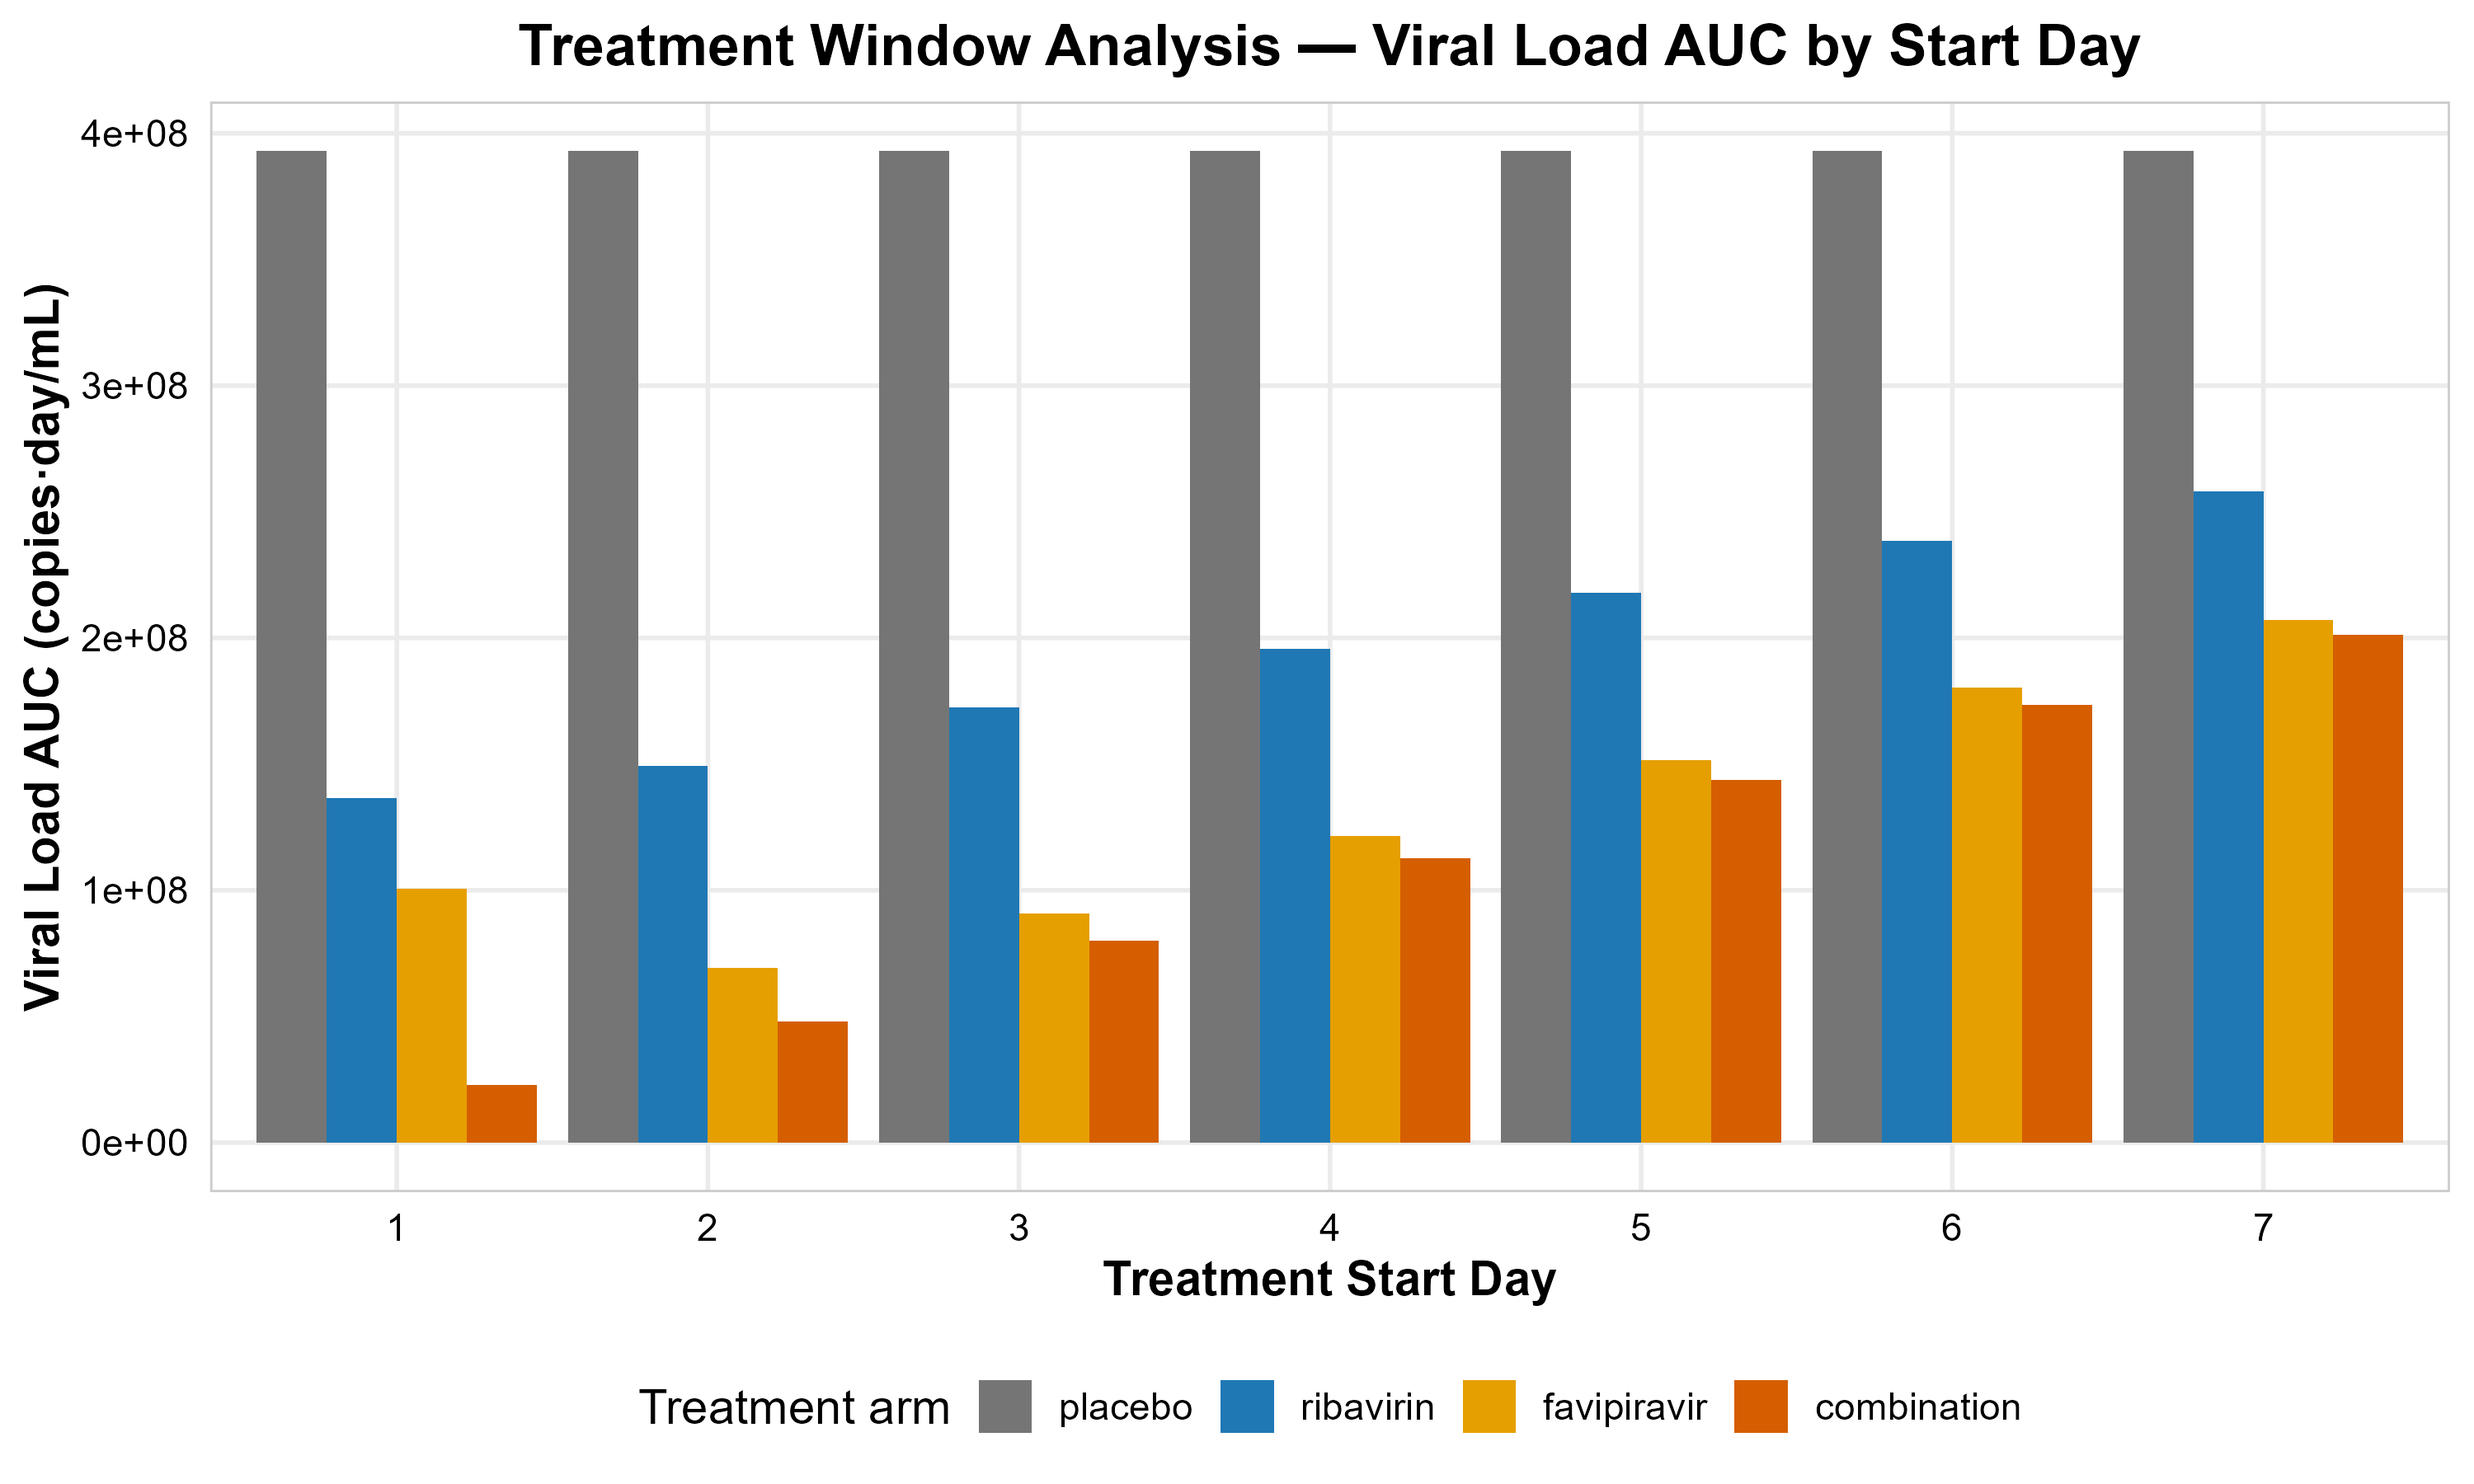
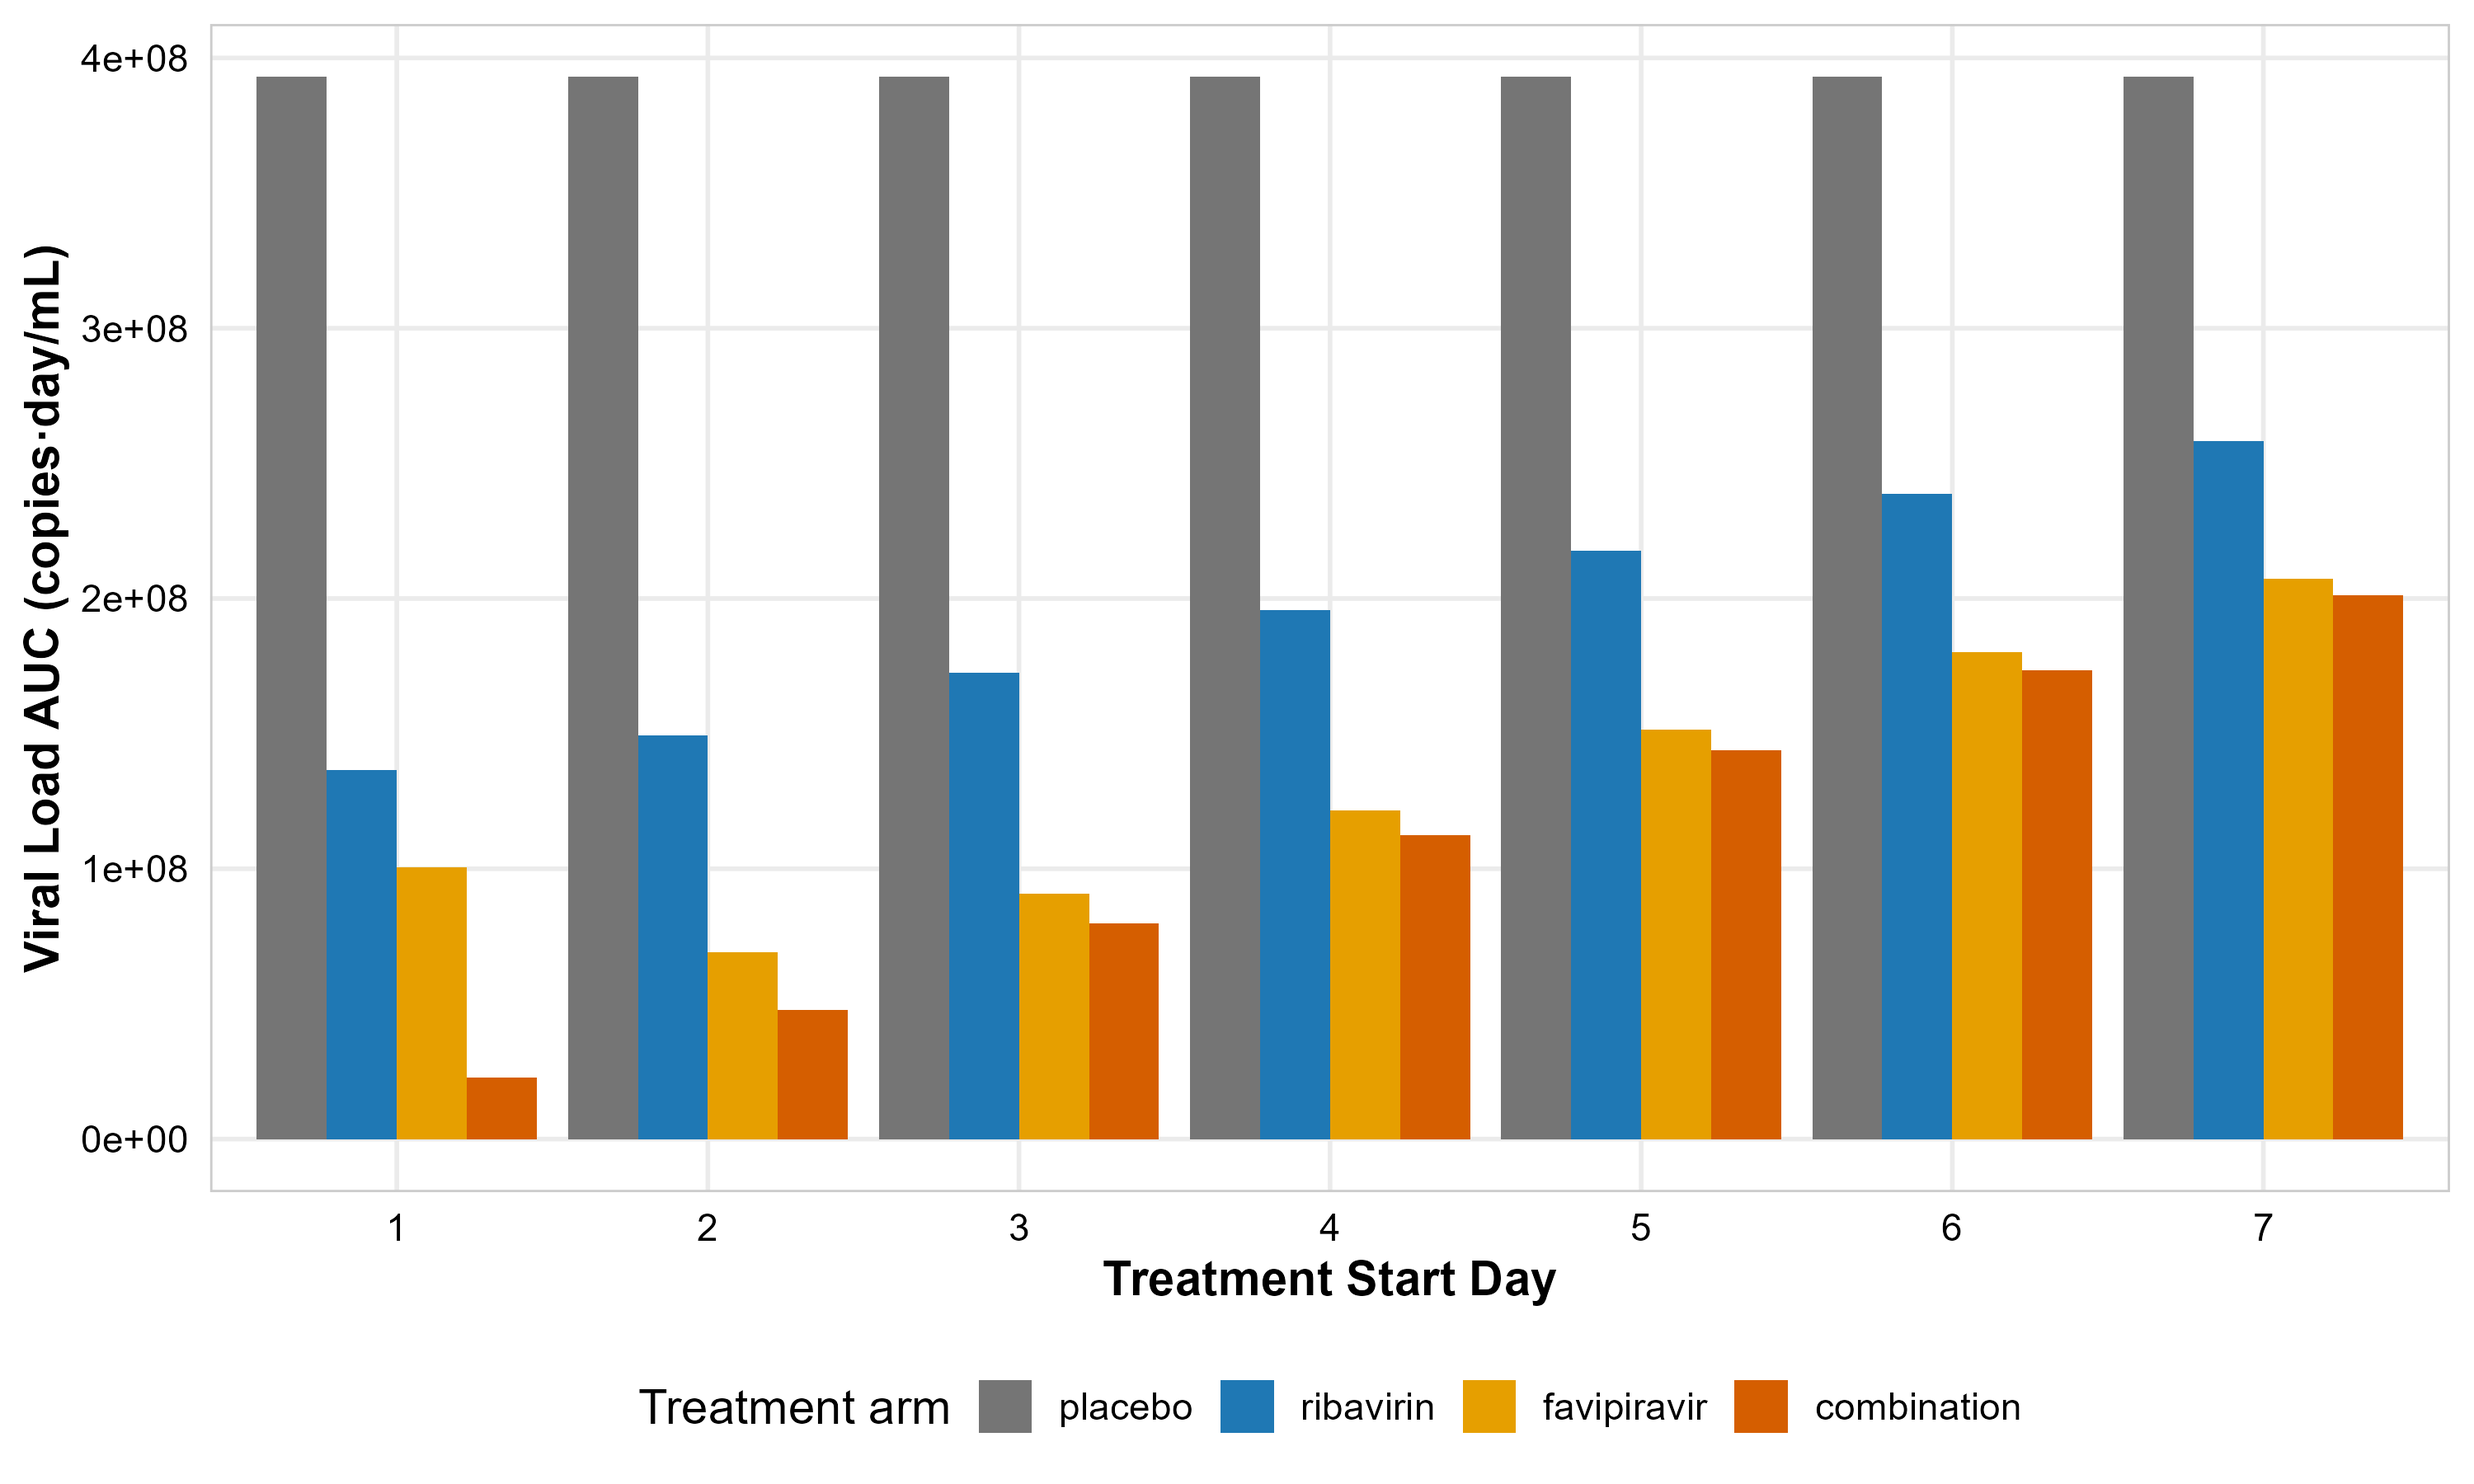
Make all four main figures reproducible by code
Close the figure-reproducibility gap found while checking the JIC package: the
submitted Figures 3 and 4 could not be regenerated from the repo (the heatmap
scripts still baked in a title/subtitle, and the submitted files were hand-cropped
and re-tagged to 600 dpi), and Figures 1 and 2 relied on an uncommitted analysis.R
change.

- Figures 3/4 (organ + adaptive heatmaps): remove the in-figure title/subtitle
  and render at 600 dpi in plot_organ_heatmap.R / plot_adaptive_heatmap.R (the
  caption is supplied in the manuscript). Re-rendered from the git-tracked peak
  caches, so every cell value is unchanged.
- Figures 1/2 (viral kinetics, treatment window): commit the title = NULL change
  in analysis.R that was previously only in the working tree.
- Add R/assemble_figures.R to copy outputs/*.png -> the submission
  Figures/Figure_1..4.png, replacing the earlier manual crop/rename/re-tag step.
- Document the end-to-end figure pipeline in README.

No model, parameter, or numeric-result changes: the pipeline is seeded
(virtual_population 42, simulate_trial 123) and the heatmap model is
deterministic, so all reported numbers are identical.

diff --git a/README.md b/README.md
@@ -167,6 +167,25 @@ Rscript R/make_s7.R              # regenerates Supplementary Fig. S7 (external c
 > run as standalone `Rscript` invocations (they fail if sourced inside another
 > script's environment).
 
+### Regenerate the submission figures
+
+The four main-text figures are produced entirely by code and copied into the
+manuscript submission folder by `R/assemble_figures.R`:
+
+```bash
+Rscript R/run_pipeline.R           # Figure 1 (viral kinetics) + Figure 2 (treatment window)
+Rscript R/plot_organ_heatmap.R     # Figure 3 (organ injury heatmap)
+Rscript R/plot_adaptive_heatmap.R  # Figure 4 (adaptive immunity heatmap)
+Rscript R/assemble_figures.R       # copy outputs/*.png -> Figures/Figure_1..4.png
+```
+
+Figures carry no in-figure title (the caption is supplied in the manuscript).
+Figures 1–2 are seeded (`virtual_population` seed 42, `simulate_trial` seed 123),
+and the heatmap scripts read git-tracked per-patient caches
+(`outputs/{organ,adaptive}_peak_data.csv`), so re-running reproduces the
+submitted figures exactly. Delete those caches (or run `R/regen_cached_figs.R`)
+to re-simulate the heatmap inputs from scratch.
+
 ### Individual components
 
 ```r
